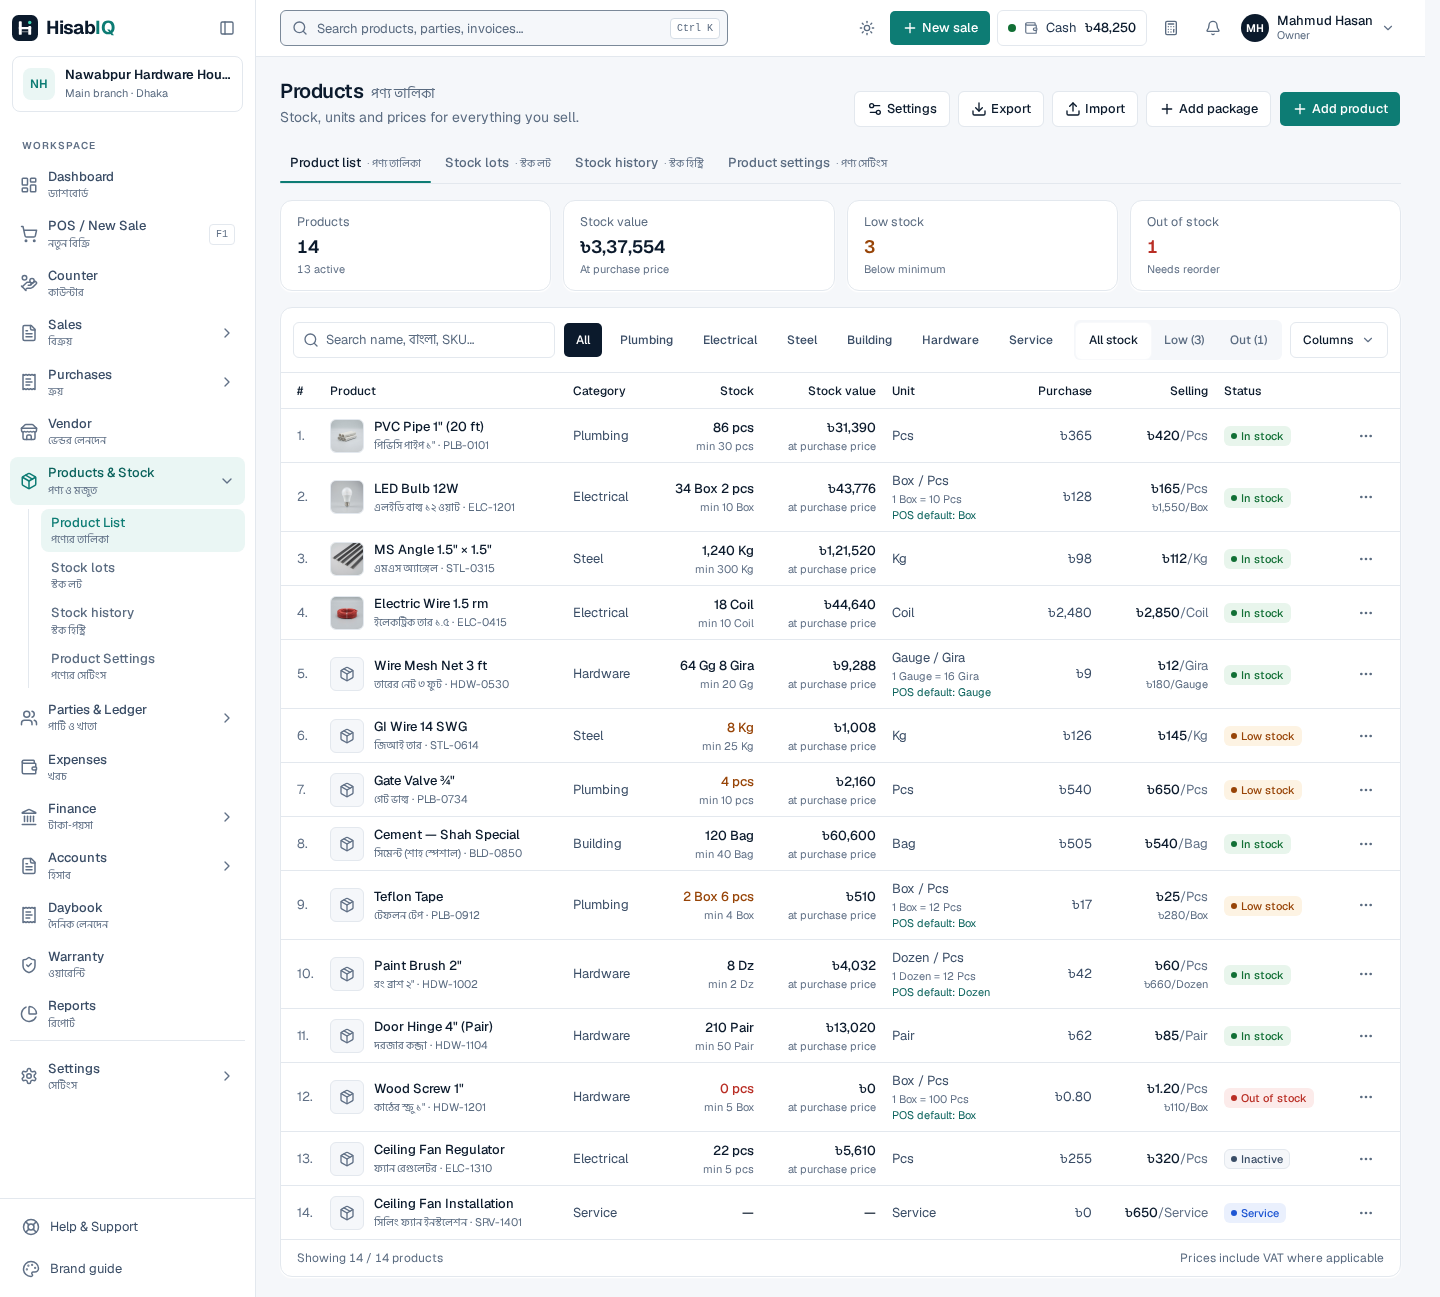
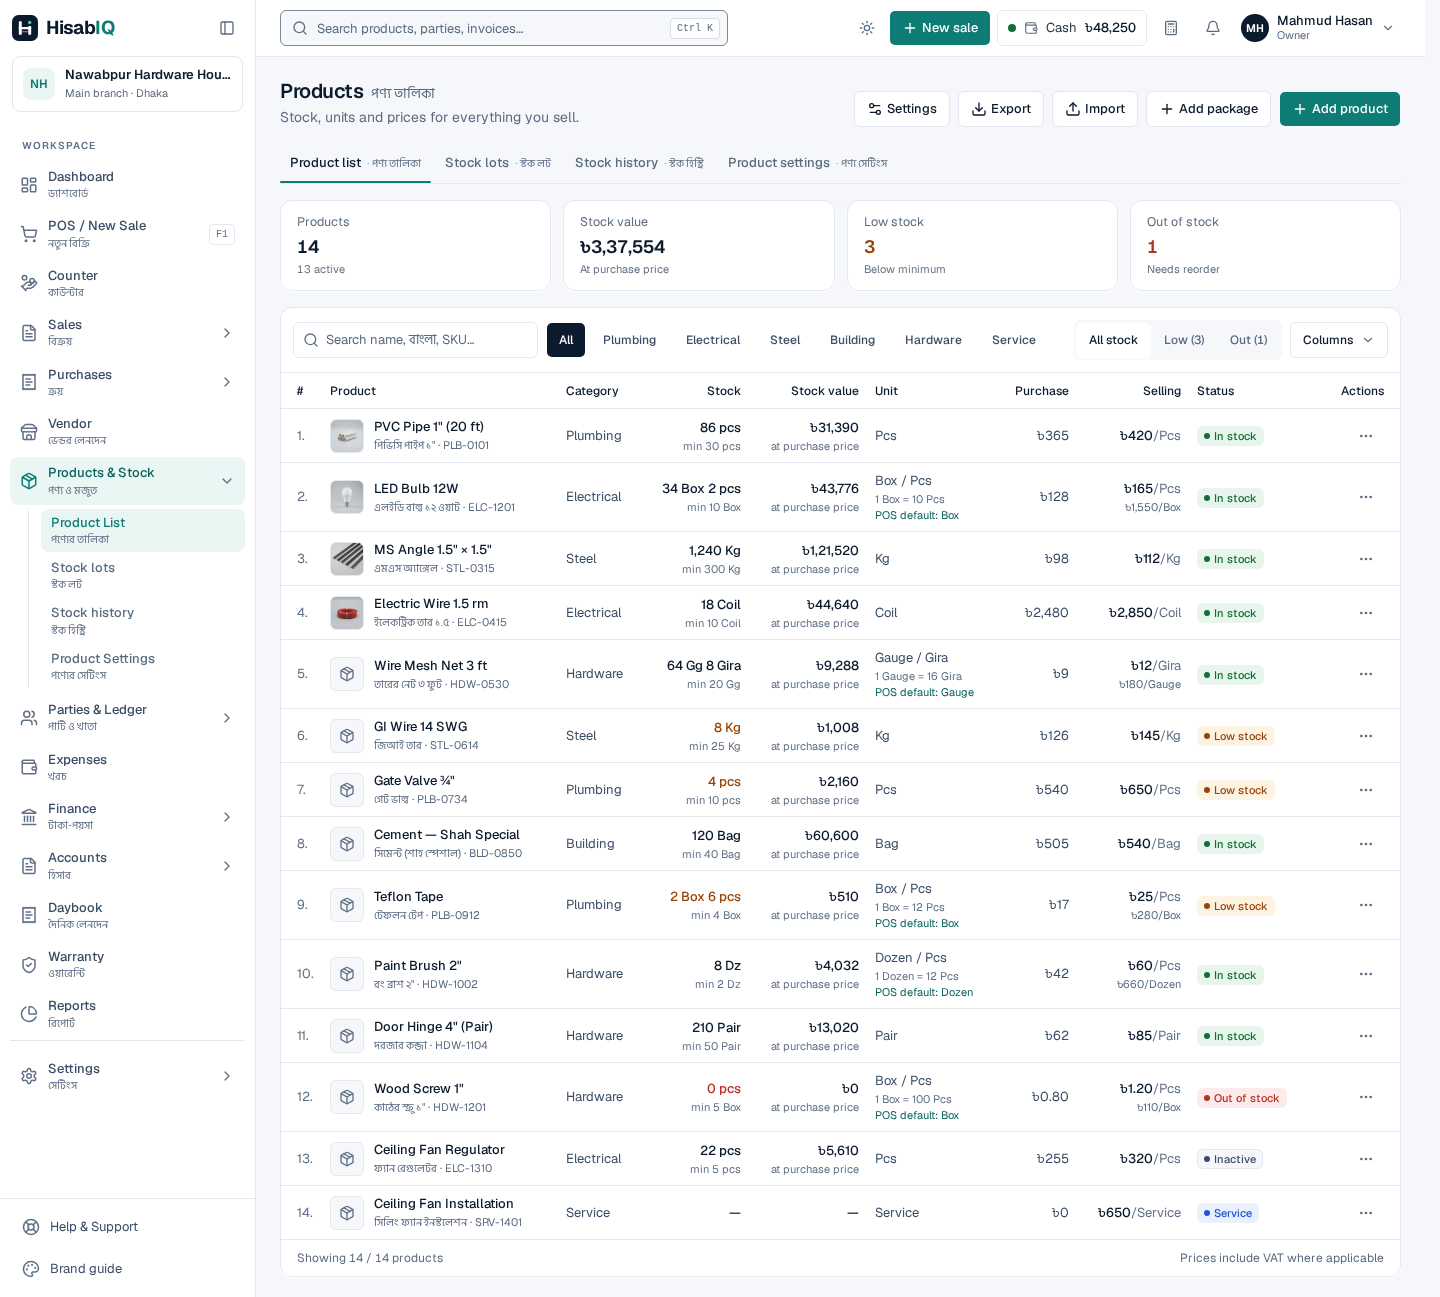
💄 [ui] products: align filters and label actions in table header

diff --git a/src/pages/Products.tsx b/src/pages/Products.tsx
@@ -2,7 +2,7 @@ import {useModuleColumns} from '../settings/useModuleColumns';
 import { MotionTabList, MotionTabIndicator } from '../motion/MotionTabList';
 import {matchesSearch as fuzzyMatch} from '../utils/fuzzySearch';
 import { useSearchParams } from 'react-router-dom';
-import { useEffect, useMemo, useRef, useState, useSyncExternalStore } from 'react';
+import { useEffect, useMemo, useState, useSyncExternalStore } from 'react';
 import { Check, ChevronDown, Download, Upload, MoreHorizontal, Plus, Search } from 'lucide-react';
 import { toast } from 'sonner';
 import { Button } from '../components/Button';
@@ -240,19 +240,6 @@ export function Products() {
   const [movements, setMovements] = useState<StockMovement[]>(availableStockMovements);
   const [offers, setOffers] = useState<ProductOffer[]>(seedOffers);
   const [inventoryProductFilter, setInventoryProductFilter] = useState('');
-  const productTableRef = useRef<HTMLTableElement>(null);
-  const [tableOverflows, setTableOverflows] = useState(false);
-  useEffect(() => {
-    const table = productTableRef.current;
-    const region = table?.parentElement;
-    if (!table || !region) return;
-    const update = () => setTableOverflows(region.scrollWidth > region.clientWidth + 1);
-    update();
-    const observer = new ResizeObserver(update);
-    observer.observe(table);
-    observer.observe(region);
-    return () => observer.disconnect();
-  }, [view, dialogOpen, creatingBundle, bundleEditorProduct]);
   const soldSerials = useMemo(() => salesInvoices.flatMap((invoice) => invoice.lines.flatMap((line) => line.serials ?? [])), []);
   const knownSerials = useMemo(() => [...lots.flatMap((lot) => lot.serials ?? []), ...soldSerials], [lots, soldSerials]);
   const {columns:visibleColumns,setColumns:setVisibleColumns}=useModuleColumns('products',columnStorageKey,defaultVisibleColumns);
@@ -508,8 +495,8 @@ export function Products() {
       </div>
 
       <div className="rounded-xl border border-border bg-card shadow-card">
-        <div className="flex flex-wrap items-center gap-2 border-b border-border p-2 sm:p-3">
-          <div className="relative w-full max-w-xs xl:min-w-40 xl:flex-1">
+        <div data-products-filter-toolbar="" className="flex flex-wrap items-center gap-2 border-b border-border p-2 sm:p-3 xl:flex-nowrap xl:gap-2">
+          <div className="relative w-full max-w-xs xl:w-[200px] xl:max-w-none xl:shrink-0 min-[1400px]:w-[245px] 2xl:w-[260px]">
             <Search className="pointer-events-none absolute left-2.5 top-1/2 z-10 size-4 -translate-y-1/2 text-ink-400" aria-hidden="true" />
             <Input
               value={query}
@@ -519,7 +506,7 @@ export function Products() {
               className="h-8 w-full rounded-md border border-border pl-8 pr-3 text-sm focus:border-teal-500 focus:outline-none focus:ring-2 focus:ring-teal-500/20" />
             
           </div>
-          <div className="flex flex-wrap gap-1">
+          <div className="flex flex-wrap gap-1 xl:min-w-0 xl:flex-1 xl:flex-nowrap xl:overflow-x-auto xl:whitespace-nowrap scrollbar-thin">
             {availableProductCategories().map((c) =>
             <Button
               key={c}
@@ -528,7 +515,7 @@ export function Products() {
               size="sm"
               aria-pressed={category === c}
               onClick={() => setCategory(c)}
-              className={`text-xs ${
+              className={`shrink-0 px-2 text-xs ${
               category === c ? 'bg-inverse text-white hover:bg-inverse hover:text-white' : 'text-ink-600 hover:bg-ink-50'}`
               }>
               
@@ -536,7 +523,7 @@ export function Products() {
               </Button>
             )}
           </div>
-          <div className="ml-auto flex flex-wrap items-center gap-2">
+          <div className="ml-auto flex flex-wrap items-center gap-2 xl:shrink-0 xl:flex-nowrap">
             <div className="flex rounded-md bg-ink-50 p-0.5" role="radiogroup" aria-label={pl("Stock filter")}>
               {(
               [
@@ -575,18 +562,7 @@ export function Products() {
           </div>
         </div>
 
-        {tableOverflows && <div className="flex justify-end border-b border-border px-3 py-1">
-          <Button variant="ghost" size="sm" data-product-scroll-action=""
-            onClick={() => {
-              const region = productTableRef.current?.parentElement;
-              region?.scrollTo({ left: region.scrollWidth });
-            }}
-            className="gap-1.5 text-xs text-ink-500">
-            {pl('Stock')} · {pl('Selling')} · {pl('Actions')}
-            <ChevronDown className="size-3.5 -rotate-90" aria-hidden="true" />
-          </Button>
-        </div>}
-        <Table ref={productTableRef} scrollRegionLabel={pl('Product list')}>
+        <Table scrollRegionLabel={pl('Product list')}>
           <TableHeader>
             <TableRow className="hover:bg-transparent">
               {visibleColumns.index && <TableHead className="h-9 w-10 pl-4 text-xs">#</TableHead>}
@@ -598,7 +574,7 @@ export function Products() {
               {visibleColumns.purchase && <TableHead className="h-9 text-right text-xs">{pl('Purchase')}</TableHead>}
               {visibleColumns.selling && <TableHead className="h-9 text-right text-xs">{pl('Selling')}</TableHead>}
               {visibleColumns.status && <TableHead className="h-9 text-xs">{pl('Status')}</TableHead>}
-              <TableHead className="h-9 w-10 pr-4"><span className="sr-only">{pl("Actions")}</span></TableHead>
+              <TableHead className="h-9 min-w-[80px] whitespace-nowrap pr-4 text-right text-xs">{pl('Actions')}</TableHead>
             </TableRow>
           </TableHeader>
           <TableBody>
@@ -665,7 +641,7 @@ export function Products() {
                   <TableCell className="py-2">
                     <StatusBadge tone={statusMeta[s].tone} dot>{pl(statusMeta[s].label)}</StatusBadge>
                   </TableCell>}
-                  <TableCell className="py-2 pr-4">
+                  <TableCell className="py-2 pr-4 text-right">
                     <ProductActions
                       product={p}
                       onView={() => setDetailsProduct(p)}
